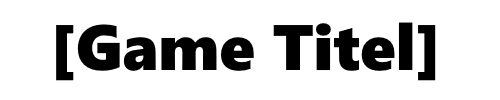
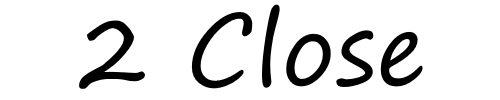
Update Title and description

Changed region(s): [[0.09, 0.03, 0.87, 0.9]]

diff --git a/README.md b/README.md
@@ -1,10 +1,14 @@
 # Ludum Dare 38 "A Small World"
 
-[ Game Titel]
+[ 2 Close ]
 
 A game by [WraithOne](https://twitter.com/WraithOne)
 
 ## Gameplay
+* Click on the Farm to gain Food
+* Click on the Lumber Mill to gain Wood
+* Click on the House to gain Villigars (needs 3 Food and 3 Wood)
+* Click on the Castle to gain Soldiers ( needs 1 Villigar, 10 Food and 10 Wood)
 
 ## Downloads
 * [Windows](https://wraithone.itch.io/ASmallWorld.zip)
@@ -12,6 +16,8 @@ A game by [WraithOne](https://twitter.com/WraithOne)
 
 ## Credits
 
-* ([Corona Labs](http://www.coronalabs.com) Corona SDK)
+* [Visual Studio Code](https://code.visualstudio.com/) Code editor
 
-* ([Kenney](http://kenney.nl/) for his awesome Game Assets)
+* [Corona Labs](http://www.coronalabs.com) Corona SDK
+
+* [Kenney](http://kenney.nl/) Awesome free Game Assets
